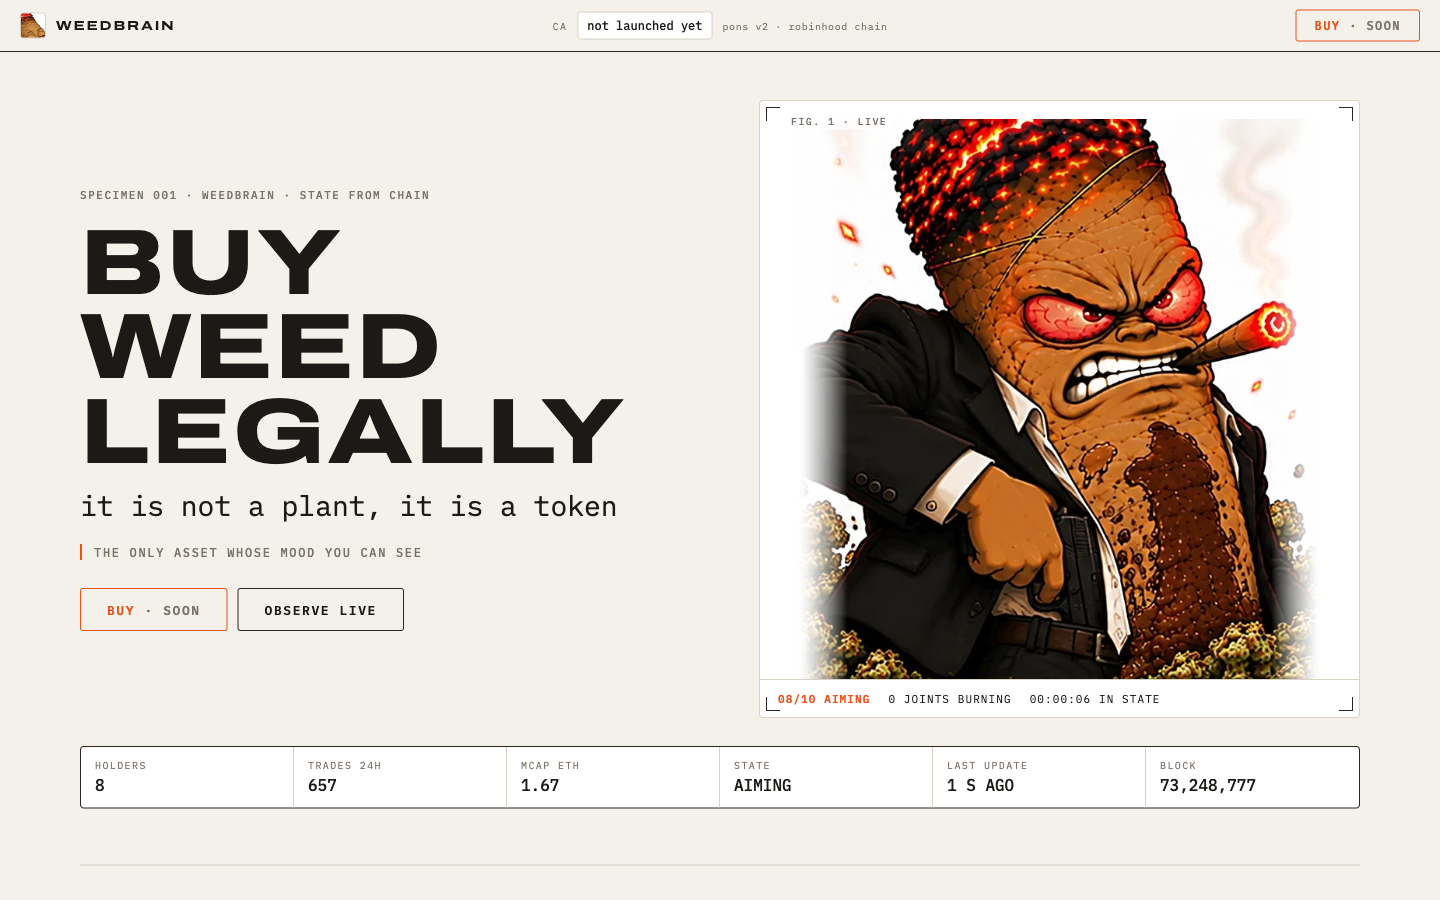
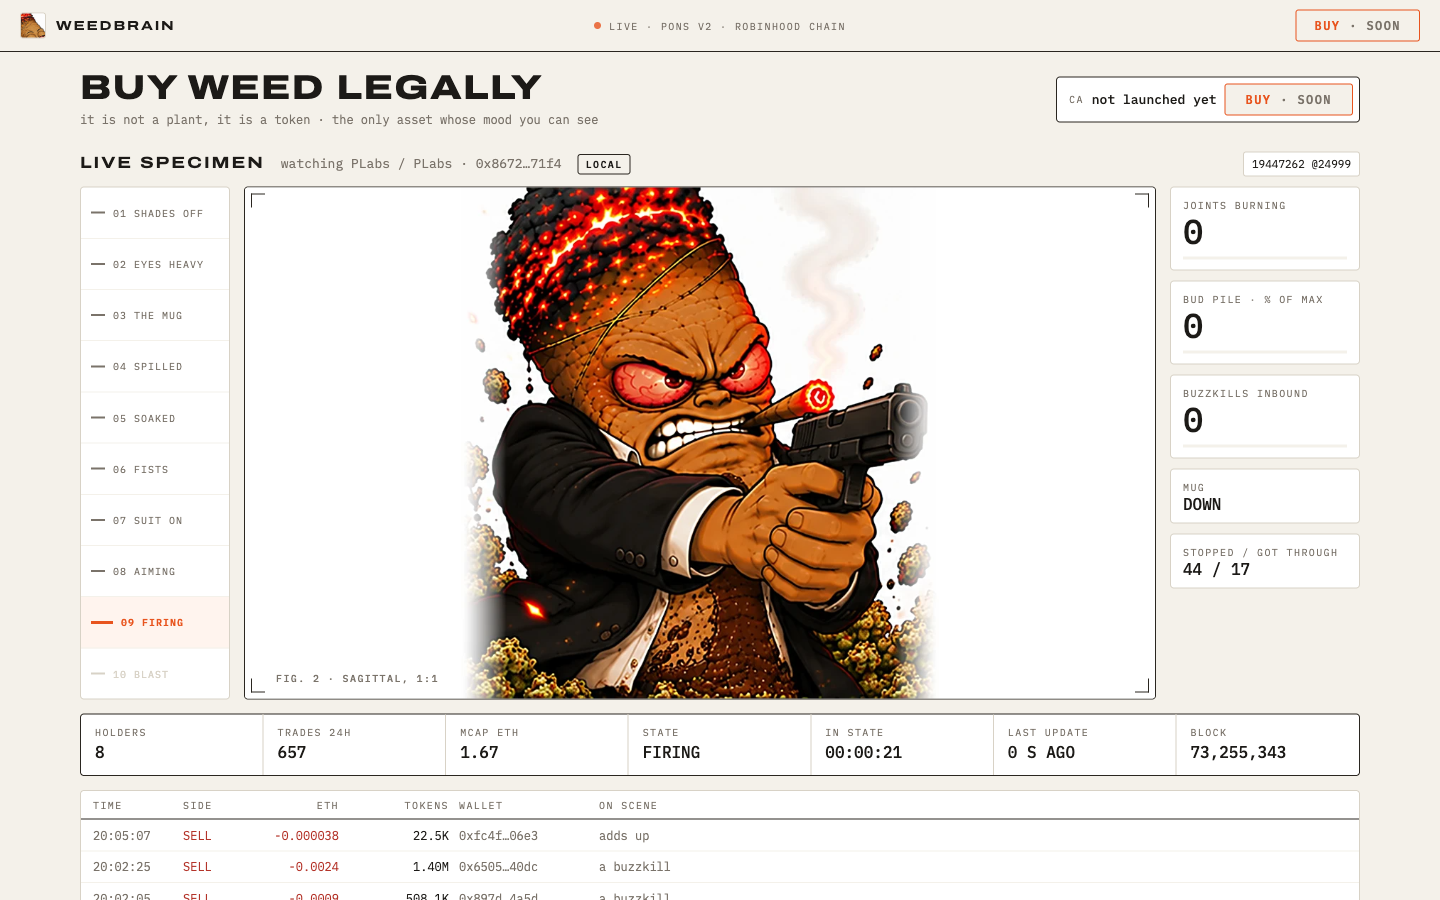
First screen is the live specimen: a short title, a low contract bar, then the scene

diff --git a/src/site.css b/src/site.css
@@ -91,6 +91,9 @@ h3 { font-size: var(--s2); letter-spacing: 0.1em; }
 }
 .logo { display: flex; align-items: center; gap: 10px; text-decoration: none; font: 700 var(--s2)/1 var(--head); font-stretch: 125%; letter-spacing: 0.14em; }
 .logo img { border-radius: 3px; border: 1px solid var(--rule); }
+.net { font-size: var(--s-1); letter-spacing: 0.14em; color: var(--dim); display: flex; align-items: center; gap: 8px; text-transform: uppercase; }
+.dot { width: 7px; height: 7px; border-radius: 50%; background: var(--ember); animation: blink 1.6s infinite; }
+@keyframes blink { 50% { opacity: 0.25; } }
 .ca { display: flex; align-items: center; gap: 10px; min-width: 0; }
 .ca .k { font-size: var(--s-1); letter-spacing: 0.14em; color: var(--dim); }
 .ca code { font: 500 var(--s1) var(--mono); background: var(--panel); border: 1px solid var(--rule); padding: 5px 9px; border-radius: 3px; white-space: nowrap; overflow: hidden; text-overflow: ellipsis; }
@@ -120,6 +123,19 @@ section { border-bottom: 1px solid var(--rule); padding: 56px 0; scroll-margin-t
 .badge[data-mode="demo"] { color: var(--blood); border-color: var(--blood); }
 .hash { margin-left: auto; font-size: var(--s0); background: var(--panel); border: 1px solid var(--rule); padding: 3px 8px; border-radius: 3px; }
 
+/* ---------- first screen ---------- */
+.intro { display: flex; align-items: center; justify-content: space-between; gap: 18px 28px; flex-wrap: wrap; padding: 18px 0 14px; border-bottom: 0; }
+.intro h1 { font-size: clamp(22px, 2.6vw, 34px); line-height: 1; letter-spacing: 0.04em; font-weight: 800; }
+.intro-title p { margin: 6px 0 0; font-size: var(--s1); }
+.cabar { display: flex; align-items: center; gap: 8px; background: var(--panel); border: 1px solid var(--rule-dark); border-radius: 4px; padding: 6px 6px 6px 12px; min-width: 0; }
+.cabar .k { font-size: var(--s-1); letter-spacing: 0.14em; color: var(--dim); }
+.cabar code { font-size: var(--s2); font-weight: 500; white-space: nowrap; overflow: hidden; text-overflow: ellipsis; min-width: 0; }
+.cabar .copy { padding: 8px 12px; }
+.cabar .buy { padding: 9px 20px; }
+.live { padding-top: 8px; }
+.live .sec-head { margin-bottom: 10px; }
+.live .strip { margin-top: 14px; grid-template-columns: repeat(7, 1fr); }
+
 /* ---------- hero ---------- */
 .hero { display: grid; grid-template-columns: 1.05fr 1fr; gap: 28px 48px; align-items: center; padding-top: 48px; }
 .hero h1 { font-size: var(--s6); line-height: 0.92; letter-spacing: 0.02em; font-weight: 800; }
@@ -136,7 +152,7 @@ section { border-bottom: 1px solid var(--rule); padding: 56px 0; scroll-margin-t
 .strip .ctr:last-child { border-right: 0; }
 
 /* ---------- live bench ---------- */
-.bench { display: grid; grid-template-columns: 150px 1fr 190px; gap: 14px; align-items: stretch; }
+.bench { display: grid; grid-template-columns: 150px minmax(0, calc((100vh - 250px) * 16 / 9)) 190px; justify-content: center; gap: 14px; align-items: stretch; }
 .scale { list-style: none; margin: 0; padding: 0; display: flex; flex-direction: column; justify-content: space-between; border: 1px solid var(--rule); border-radius: 4px; background: var(--panel); }
 .scale li { display: flex; align-items: center; gap: 8px; padding: 0 10px; flex: 1; font-size: var(--s-1); letter-spacing: 0.1em; color: var(--rule); border-bottom: 1px solid var(--paper); }
 .scale li:last-child { border-bottom: 0; }
@@ -285,12 +301,14 @@ body[data-page="scene"] .live { border: 0; padding-top: 16px; }
 /* ---------- mobile ---------- */
 @media (max-width: 1100px) {
   .top { grid-template-columns: auto 1fr auto; }
-  .ca .net { display: none; }
+  .top .net { justify-self: center; }
+  .live .strip { grid-template-columns: repeat(4, 1fr); }
   .hero { grid-template-columns: 1fr; }
-  .strip { grid-template-columns: repeat(3, 1fr); }
-  .strip .ctr:nth-child(3) { border-right: 0; }
-  .strip .ctr:nth-child(-n+3) { border-bottom: 1px solid var(--rule); }
+  .strip .ctr { border-bottom: 1px solid var(--rule); }
   .bench { grid-template-columns: 1fr; }
+  .bench .stage-box { order: -1; }
+  .intro { flex-direction: column; align-items: stretch; }
+  .cabar code { flex: 1; }
   .scale { flex-direction: row; overflow-x: auto; }
   .scale li { flex-direction: column; padding: 6px; min-width: 70px; border-bottom: 0; border-right: 1px solid var(--paper); text-align: center; }
   .gauges { flex-direction: row; flex-wrap: wrap; }
@@ -302,7 +320,12 @@ body[data-page="scene"] .live { border: 0; padding-top: 16px; }
 @media (max-width: 700px) {
   .top { padding: 0 12px; gap: 10px; }
   .logo span { display: none; }
-  .ca code { max-width: 46vw; }
+  .top .net { font-size: 9px; letter-spacing: 0.08em; }
+  .top .links .buy { display: none; }
+  .live .strip { grid-template-columns: repeat(2, 1fr); }
+  .intro { padding: 12px 0 10px; }
+  .live .sec-head { gap: 8px; }
+  .live .sec-head #watching { display: none; }
   .links a:not(.buy) { display: none; }
   main { padding: 0 12px; }
   section { padding: 36px 0; }

diff --git a/src/index.html b/src/index.html
@@ -21,12 +21,7 @@
 
 <header class="top">
   <a class="logo" href="#"><img src="favicon.png" alt="" width="26" height="26"><span>WEEDBRAIN</span></a>
-  <div class="ca">
-    <span class="k">CA</span>
-    <code id="ca">not launched yet</code>
-    <button class="copy" id="copy" type="button" hidden>COPY</button>
-    <span class="net">pons v2 · robinhood chain</span>
-  </div>
+  <span class="net mono"><i class="dot"></i>LIVE · pons v2 · robinhood chain</span>
   <nav class="links">
     <a id="x-link" href="#" target="_blank" rel="noopener" hidden>X</a>
     <a id="gh-link" href="#" target="_blank" rel="noopener" hidden>GITHUB</a>
@@ -36,35 +31,17 @@
 
 <main>
 
-<!-- 2. hero -->
-<section class="hero">
-  <div class="hero-copy">
-    <p class="eyebrow">SPECIMEN 001 · <span data-symbol>WEEDBRAIN</span> · STATE FROM CHAIN</p>
+<!-- 1-2. the first screen: a small title, the contract, then the live specimen -->
+<section class="intro">
+  <div class="intro-title">
     <h1>BUY WEED LEGALLY</h1>
-    <p class="h1b">it is not a plant, it is a token</p>
-    <p class="lede">the only asset whose mood you can see</p>
-    <div class="ctas">
-      <a class="buy big" data-buy href="#" aria-disabled="true">BUY</a>
-      <a class="ghost big" href="#live">OBSERVE LIVE</a>
-    </div>
+    <p class="mono dim">it is not a plant, it is a token · the only asset whose mood you can see</p>
   </div>
-  <figure class="specimen" id="hero-specimen">
-    <div class="ticks"><i></i><i></i><i></i><i></i></div>
-    <span class="plate">FIG. 1 · LIVE</span>
-    <img id="hero-clip" src="frames/11.webp" alt="The joint in his current state" width="672" height="720">
-    <figcaption class="status mono">
-      <b id="hero-stage">THE MUG</b>
-      <span id="hero-joints">0 JOINTS BURNING</span>
-      <span id="hero-time">00:00:00 IN STATE</span>
-    </figcaption>
-  </figure>
-  <div class="strip mono" id="counters">
-    <div class="ctr"><span>HOLDERS</span><b id="c-holders">-</b></div>
-    <div class="ctr"><span>TRADES 24H</span><b id="c-trades">-</b></div>
-    <div class="ctr"><span>MCAP ETH</span><b id="c-mcap">-</b></div>
-    <div class="ctr"><span>STATE</span><b id="c-state">-</b></div>
-    <div class="ctr"><span>LAST UPDATE</span><b id="c-updated">-</b></div>
-    <div class="ctr"><span>BLOCK</span><b id="c-block">-</b></div>
+  <div class="cabar">
+    <span class="k mono">CA</span>
+    <code id="ca" class="mono">not launched yet</code>
+    <button class="copy" id="copy" type="button" hidden>COPY</button>
+    <a class="buy" data-buy href="#" aria-disabled="true">BUY</a>
   </div>
 </section>
 
@@ -101,6 +78,15 @@
       <div class="gauge small"><span>MUG</span><b id="g-mug">FULL</b></div>
       <div class="gauge small"><span>STOPPED / GOT THROUGH</span><b id="g-stopped">0 / 0</b></div>
     </div>
+  </div>
+  <div class="strip mono" id="counters">
+    <div class="ctr"><span>HOLDERS</span><b id="c-holders">-</b></div>
+    <div class="ctr"><span>TRADES 24H</span><b id="c-trades">-</b></div>
+    <div class="ctr"><span>MCAP ETH</span><b id="c-mcap">-</b></div>
+    <div class="ctr"><span>STATE</span><b id="c-state">-</b></div>
+    <div class="ctr"><span>IN STATE</span><b id="hero-time">-</b></div>
+    <div class="ctr"><span>LAST UPDATE</span><b id="c-updated">-</b></div>
+    <div class="ctr"><span>BLOCK</span><b id="c-block">-</b></div>
   </div>
   <div class="tape mono">
     <div class="tape-head"><span>TIME</span><span>SIDE</span><span class="r">ETH</span><span class="r">TOKENS</span><span>WALLET</span><span>ON SCENE</span></div>

diff --git a/src/weedbrain.html b/src/weedbrain.html
@@ -21,12 +21,7 @@
 
 <header class="top">
   <a class="logo" href="#"><img src="favicon.png" alt="" width="26" height="26"><span>WEEDBRAIN</span></a>
-  <div class="ca">
-    <span class="k">CA</span>
-    <code id="ca">not launched yet</code>
-    <button class="copy" id="copy" type="button" hidden>COPY</button>
-    <span class="net">pons v2 · robinhood chain</span>
-  </div>
+  <span class="net mono"><i class="dot"></i>LIVE · pons v2 · robinhood chain</span>
   <nav class="links">
     <a id="x-link" href="#" target="_blank" rel="noopener" hidden>X</a>
     <a id="gh-link" href="#" target="_blank" rel="noopener" hidden>GITHUB</a>
@@ -68,6 +63,15 @@
       <div class="gauge small"><span>MUG</span><b id="g-mug">FULL</b></div>
       <div class="gauge small"><span>STOPPED / GOT THROUGH</span><b id="g-stopped">0 / 0</b></div>
     </div>
+  </div>
+  <div class="strip mono" id="counters">
+    <div class="ctr"><span>HOLDERS</span><b id="c-holders">-</b></div>
+    <div class="ctr"><span>TRADES 24H</span><b id="c-trades">-</b></div>
+    <div class="ctr"><span>MCAP ETH</span><b id="c-mcap">-</b></div>
+    <div class="ctr"><span>STATE</span><b id="c-state">-</b></div>
+    <div class="ctr"><span>IN STATE</span><b id="hero-time">-</b></div>
+    <div class="ctr"><span>LAST UPDATE</span><b id="c-updated">-</b></div>
+    <div class="ctr"><span>BLOCK</span><b id="c-block">-</b></div>
   </div>
   <div class="tape mono">
     <div class="tape-head"><span>TIME</span><span>SIDE</span><span class="r">ETH</span><span class="r">TOKENS</span><span>WALLET</span><span>ON SCENE</span></div>

diff --git a/src/site.js b/src/site.js
@@ -487,7 +487,7 @@ async function boot() {
     const pile = Math.max(0, 1 - Math.min(1, S.melt) / 0.8);
     set("hero-stage", `${pad2(S.stage + 1)}/10 ${STAGES[S.stage]}`);
     set("hero-joints", `${n} JOINT${n === 1 ? "" : "S"} BURNING`);
-    set("hero-time", `${hms(Date.now() - stageSince)} IN STATE`);
+    set("hero-time", hms(Date.now() - stageSince));
     set("hash", `${simHash(S)} @${S.step}`);
     set("g-joints", String(n));
     set("g-pile", `${Math.round(pile * 100)}`);

diff --git a/README.md b/README.md
@@ -20,10 +20,10 @@ The story has a hinge. At first he is flat out in the pile with his shades on, t
 
 The site is built like a lab instrument, not a crypto landing page: paper background, thin rules, one accent (the ember orange), monospaced tabular numbers everywhere, headings small and rare.
 
-![The hero: the live clip of his current state and the instrument strip](docs/img/site-hero.png)
+![The first screen: the contract bar and the live specimen](docs/img/site-hero.png)
 
-- **The header** stays on top: the contract in full with a copy button and the buy button, which stays inactive until `ca` is set.
-- **The hero** plays the clip of his current state. Under it: the stage, the joints burning, the time in state, then a strip of counters: holders, trades in 24 h, market cap in ETH, the stage, the last update and the block.
+- **The first screen** is the live specimen. Above it only a short title and one low bar with the contract, a copy button and the buy button, which stays inactive until `ca` is set. The header with the buy button stays on top while scrolling.
+- **The counters** under the scene: holders, trades in 24 h, market cap in ETH, the stage, the time in it, the last update and the block.
 - **The live specimen** is the scene, with a ten-step scale on the left and gauges on the right (joints burning, the bud pile in percent of its maximum, buzzkills inbound, the mug) and the trade tape under it, every row a Blockscout link. Each trade also pops a card in the corner for 4 s: a buy in orange with `+ETH` and `a joint lands`, a sell in red with `buzzkill incoming`. When the mug goes, a full-width `THE MUG IS DOWN` card drops and the scene shakes.
 - **The brain of a joint** is a made-up anatomy plate: a point cloud of about 58,000 neurons packed into bud-shaped lumps, with thin shells where the lobes end, drawn with three.js and turning slowly (drag to rotate). Six regions answer to the chain: a buy lights the CB1 LOBE, a sell heats the EMBER NUCLEUS, a buzzkill wakes the PARANOIA TRACT, a spill jolts the MUG CORTEX, the pile sets the BUD GANGLION and the MUNCHIE NERVE never stops. Hovering a region or its label dims the rest and opens a card. Under it a coupling matrix, the buys and sells of the last 5 minutes with the mood line and a count of cell types, all moving with the trades. It says it is a joke under the plate, because it is.
 - **The rest:** the three rules, the ten states (hover plays the clip, the current one is outlined), what this is not, the footer.
